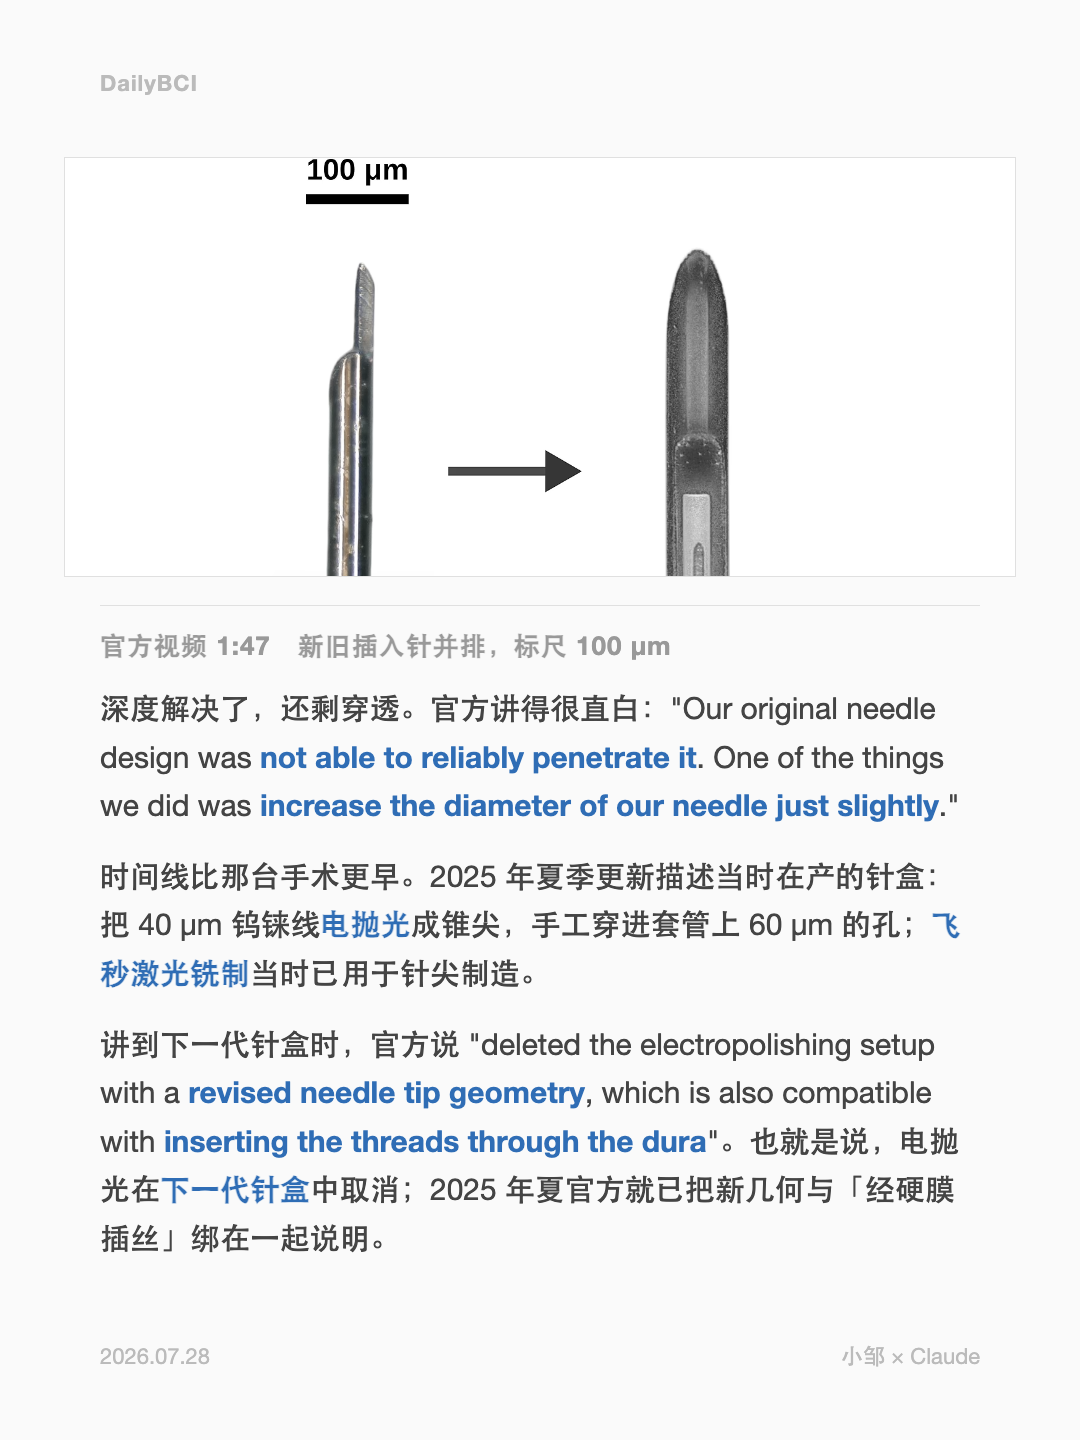
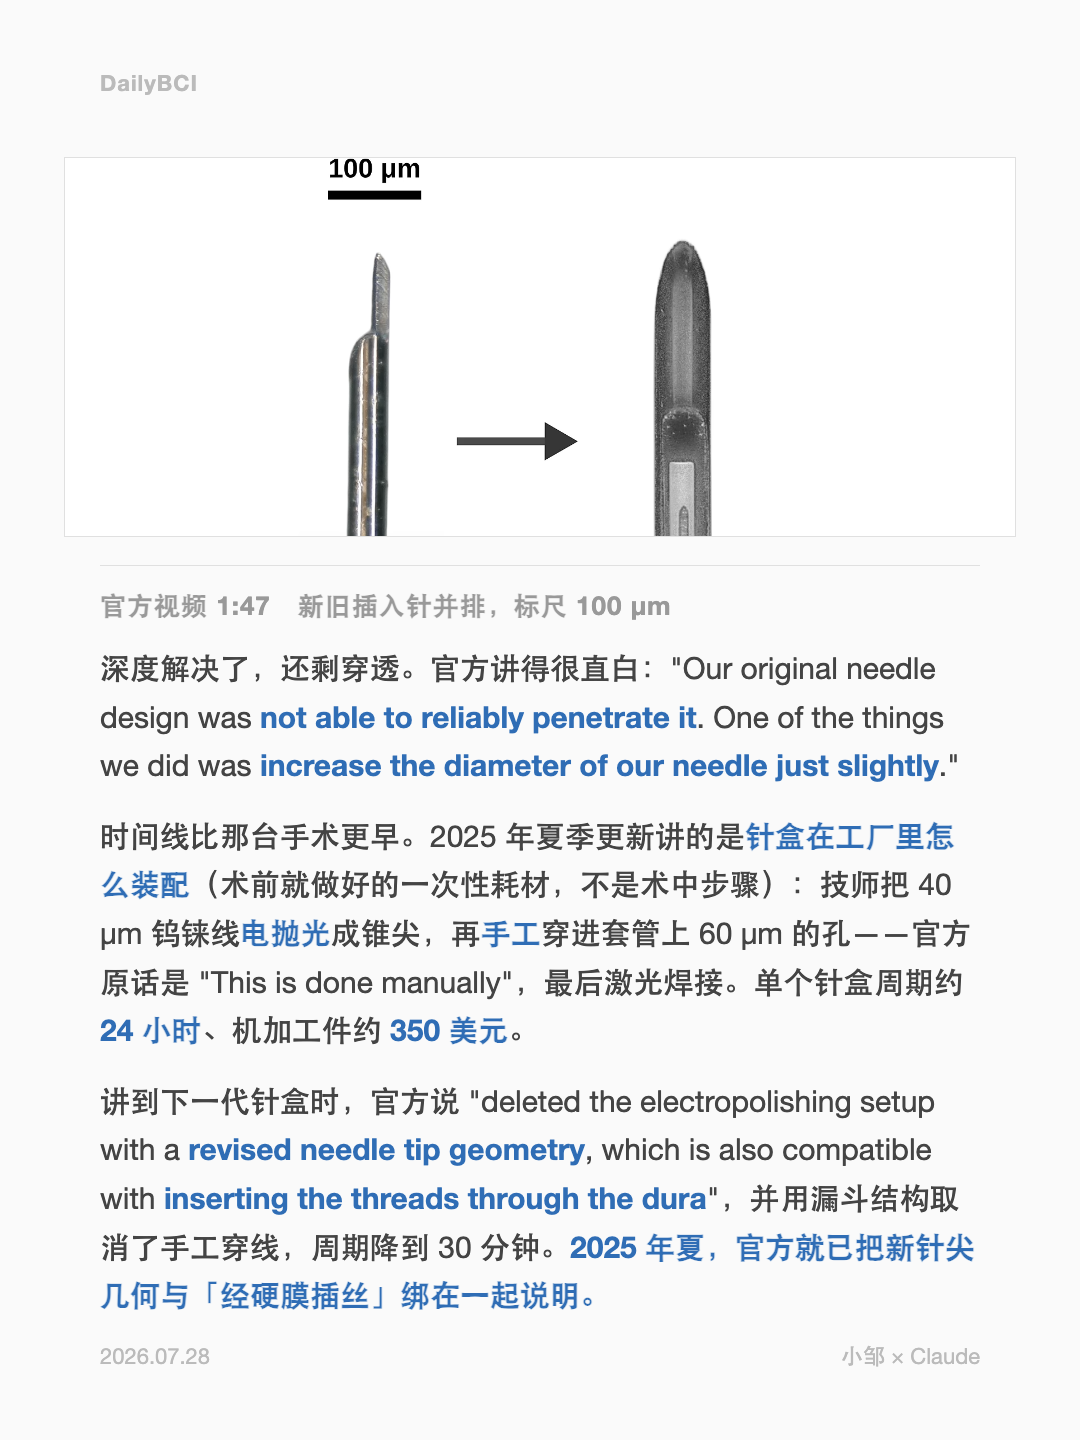
卡10 澄清: 手工穿线是工厂装配针盒的工序、非术中步骤; 补 24h/$350 -> 30min/$15 与漏斗取消手工穿线的官方原话

Changed region(s): [[0.0917, 0.0938, 0.9167, 0.9062], [0.5806, 0.1562, 0.7028, 0.4062], [0.4278, 0.2812, 0.55, 0.3438]]

diff --git a/.claude/skills/dailybci/scripts/series/build_dura2_cards.py b/.claude/skills/dailybci/scripts/series/build_dura2_cards.py
@@ -133,14 +133,16 @@ gen.figure_card(
         "深度解决了，还剩穿透。官方讲得很直白：\"Our original needle design was **not able to "
         "reliably penetrate it**. One of the things we did was **increase the diameter of our "
         "needle just slightly**.\"",
-        "时间线比那台手术更早。2025 年夏季更新描述当时在产的针盒：把 40 µm 钨铼线**电抛光**成锥尖，"
-        "手工穿进套管上 60 µm 的孔；**飞秒激光铣制**当时已用于针尖制造。",
+        "时间线比那台手术更早。2025 年夏季更新讲的是**针盒在工厂里怎么装配**"
+        "（术前就做好的一次性耗材，不是术中步骤）：技师把 40 µm 钨铼线**电抛光**成锥尖，"
+        "再**手工**穿进套管上 60 µm 的孔——官方原话是 \"This is done manually\"，最后激光焊接。"
+        "单个针盒周期约 **24 小时**、机加工件约 **350 美元**。",
         "讲到下一代针盒时，官方说 \"deleted the electropolishing setup with a **revised needle "
         "tip geometry**, which is also compatible with **inserting the threads through the "
-        "dura**\"。也就是说，电抛光在**下一代针盒**中取消；2025 年夏官方就已把新几何与「经硬膜插丝」"
-        "绑在一起说明。",
+        "dura**\"，并用漏斗结构取消了手工穿线，周期降到 30 分钟。"
+        "**2025 年夏，官方就已把新针尖几何与「经硬膜插丝」绑在一起说明。**",
     ],
-    P("10-needle.png"), figure_height=420,
+    P("10-needle.png"), figure_height=380,
 )
 
 # 11 钨铼
